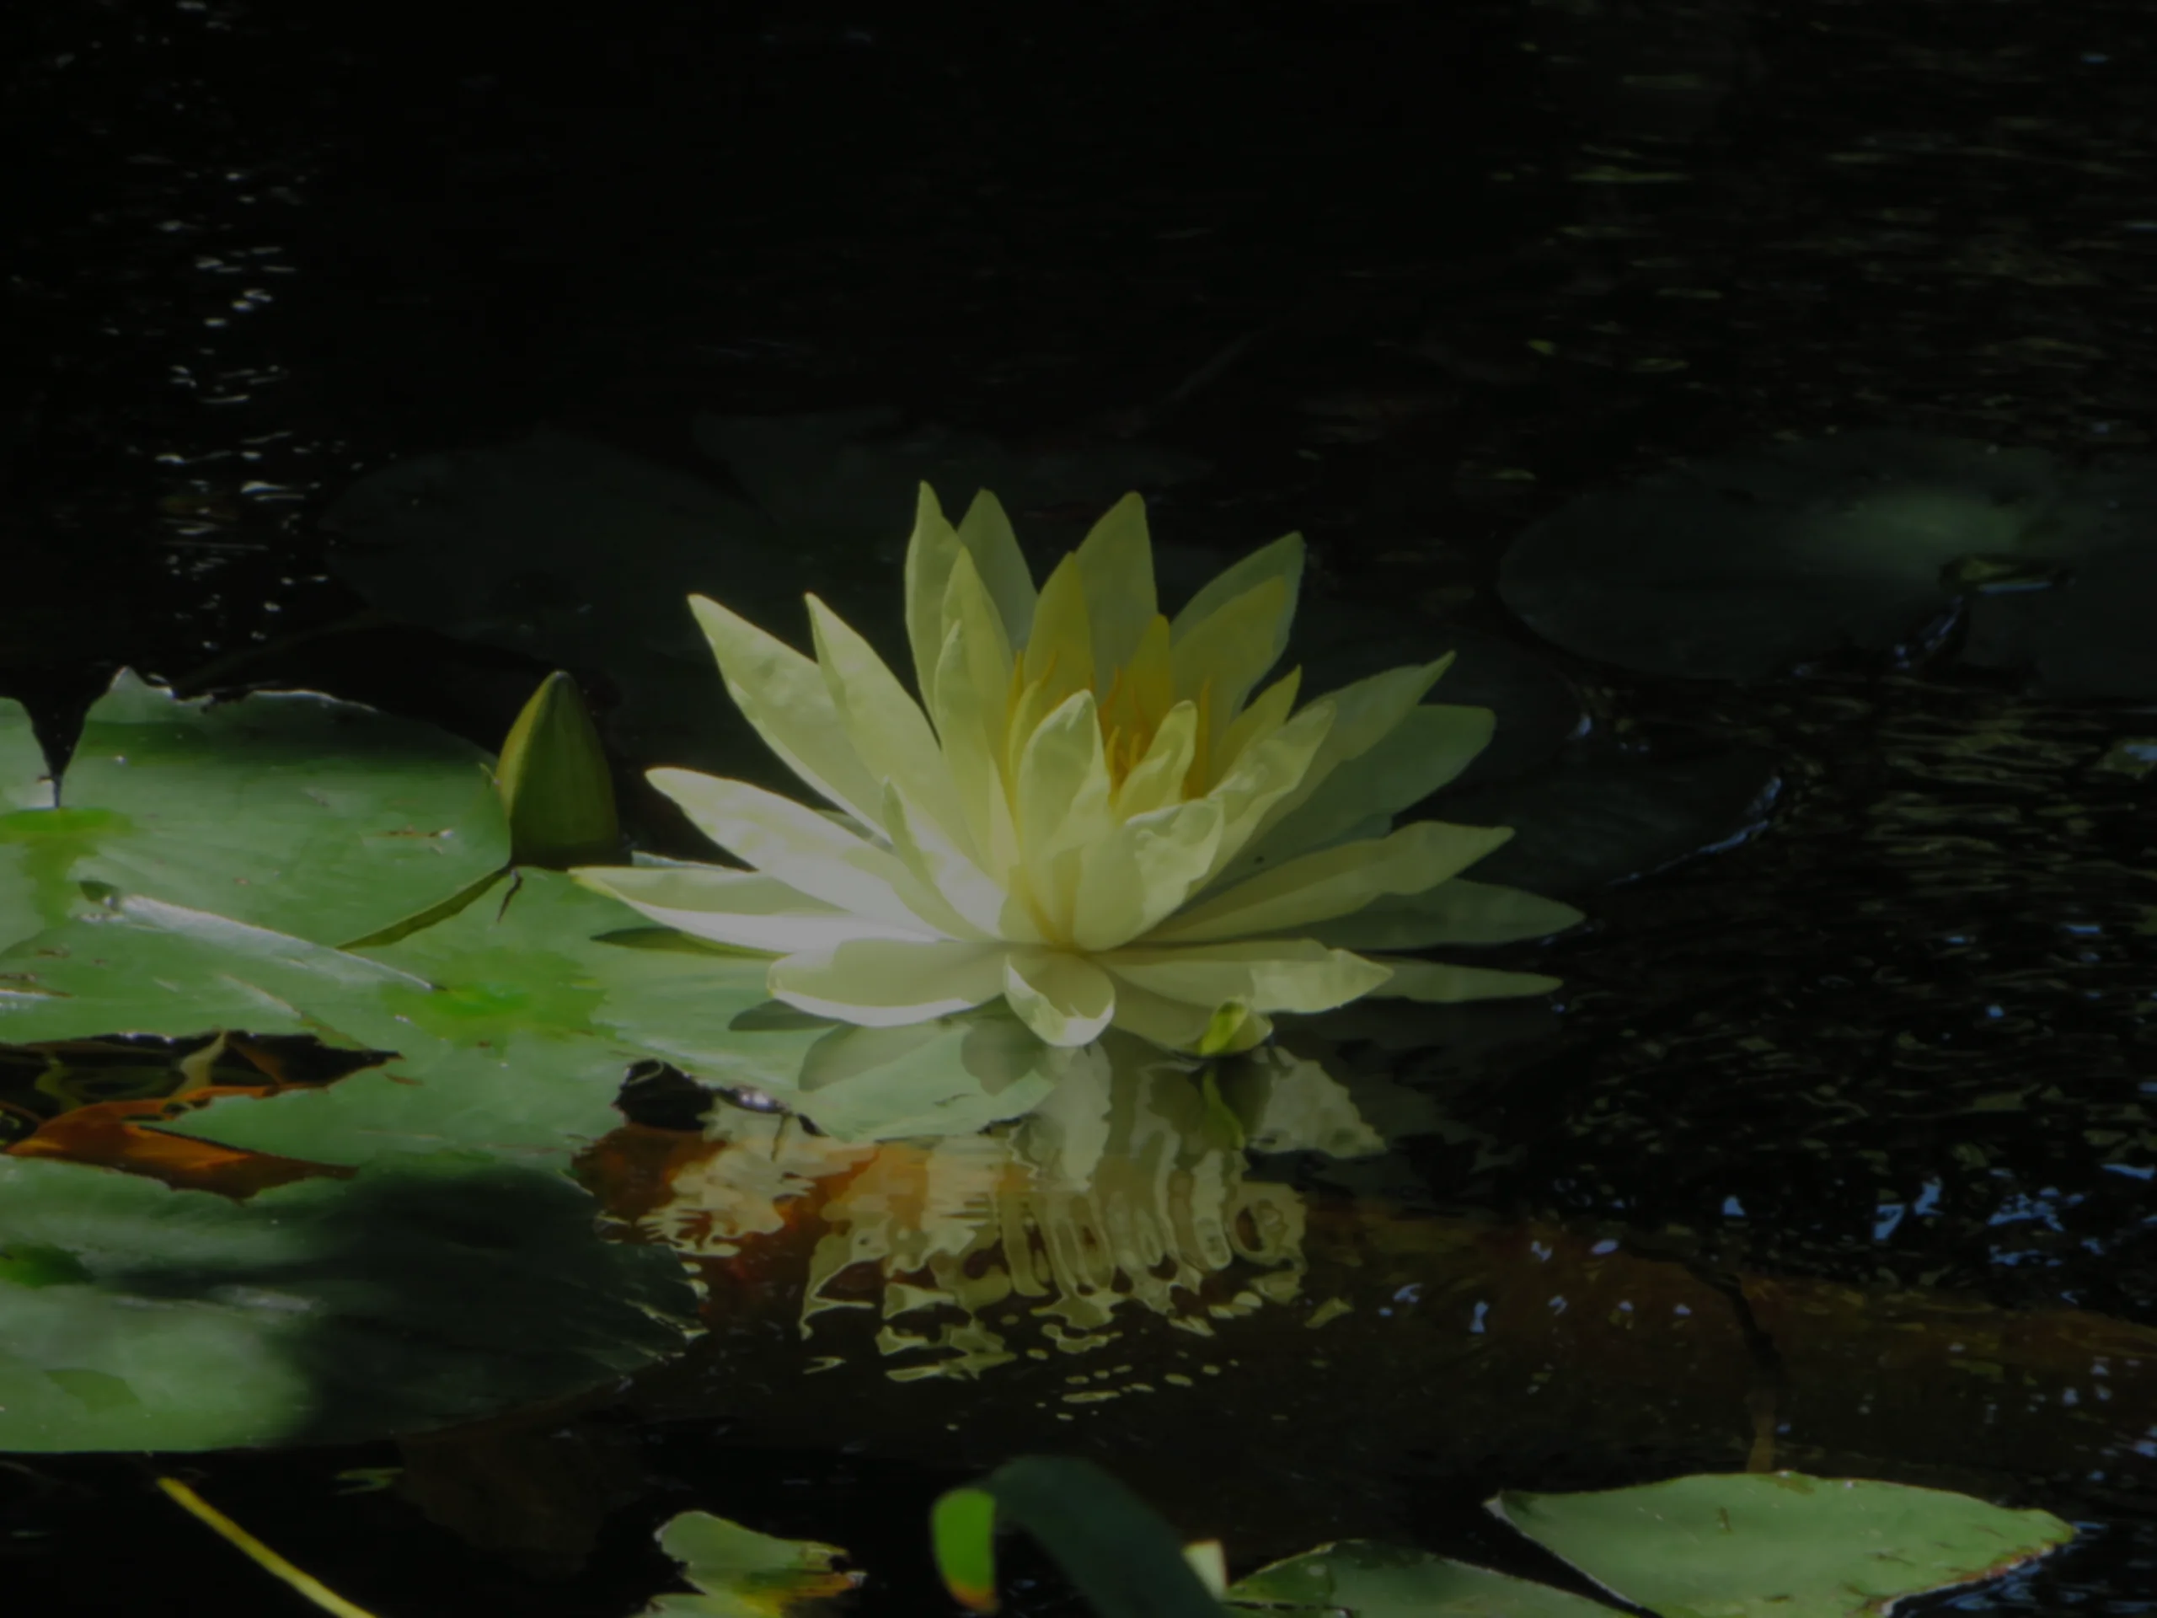
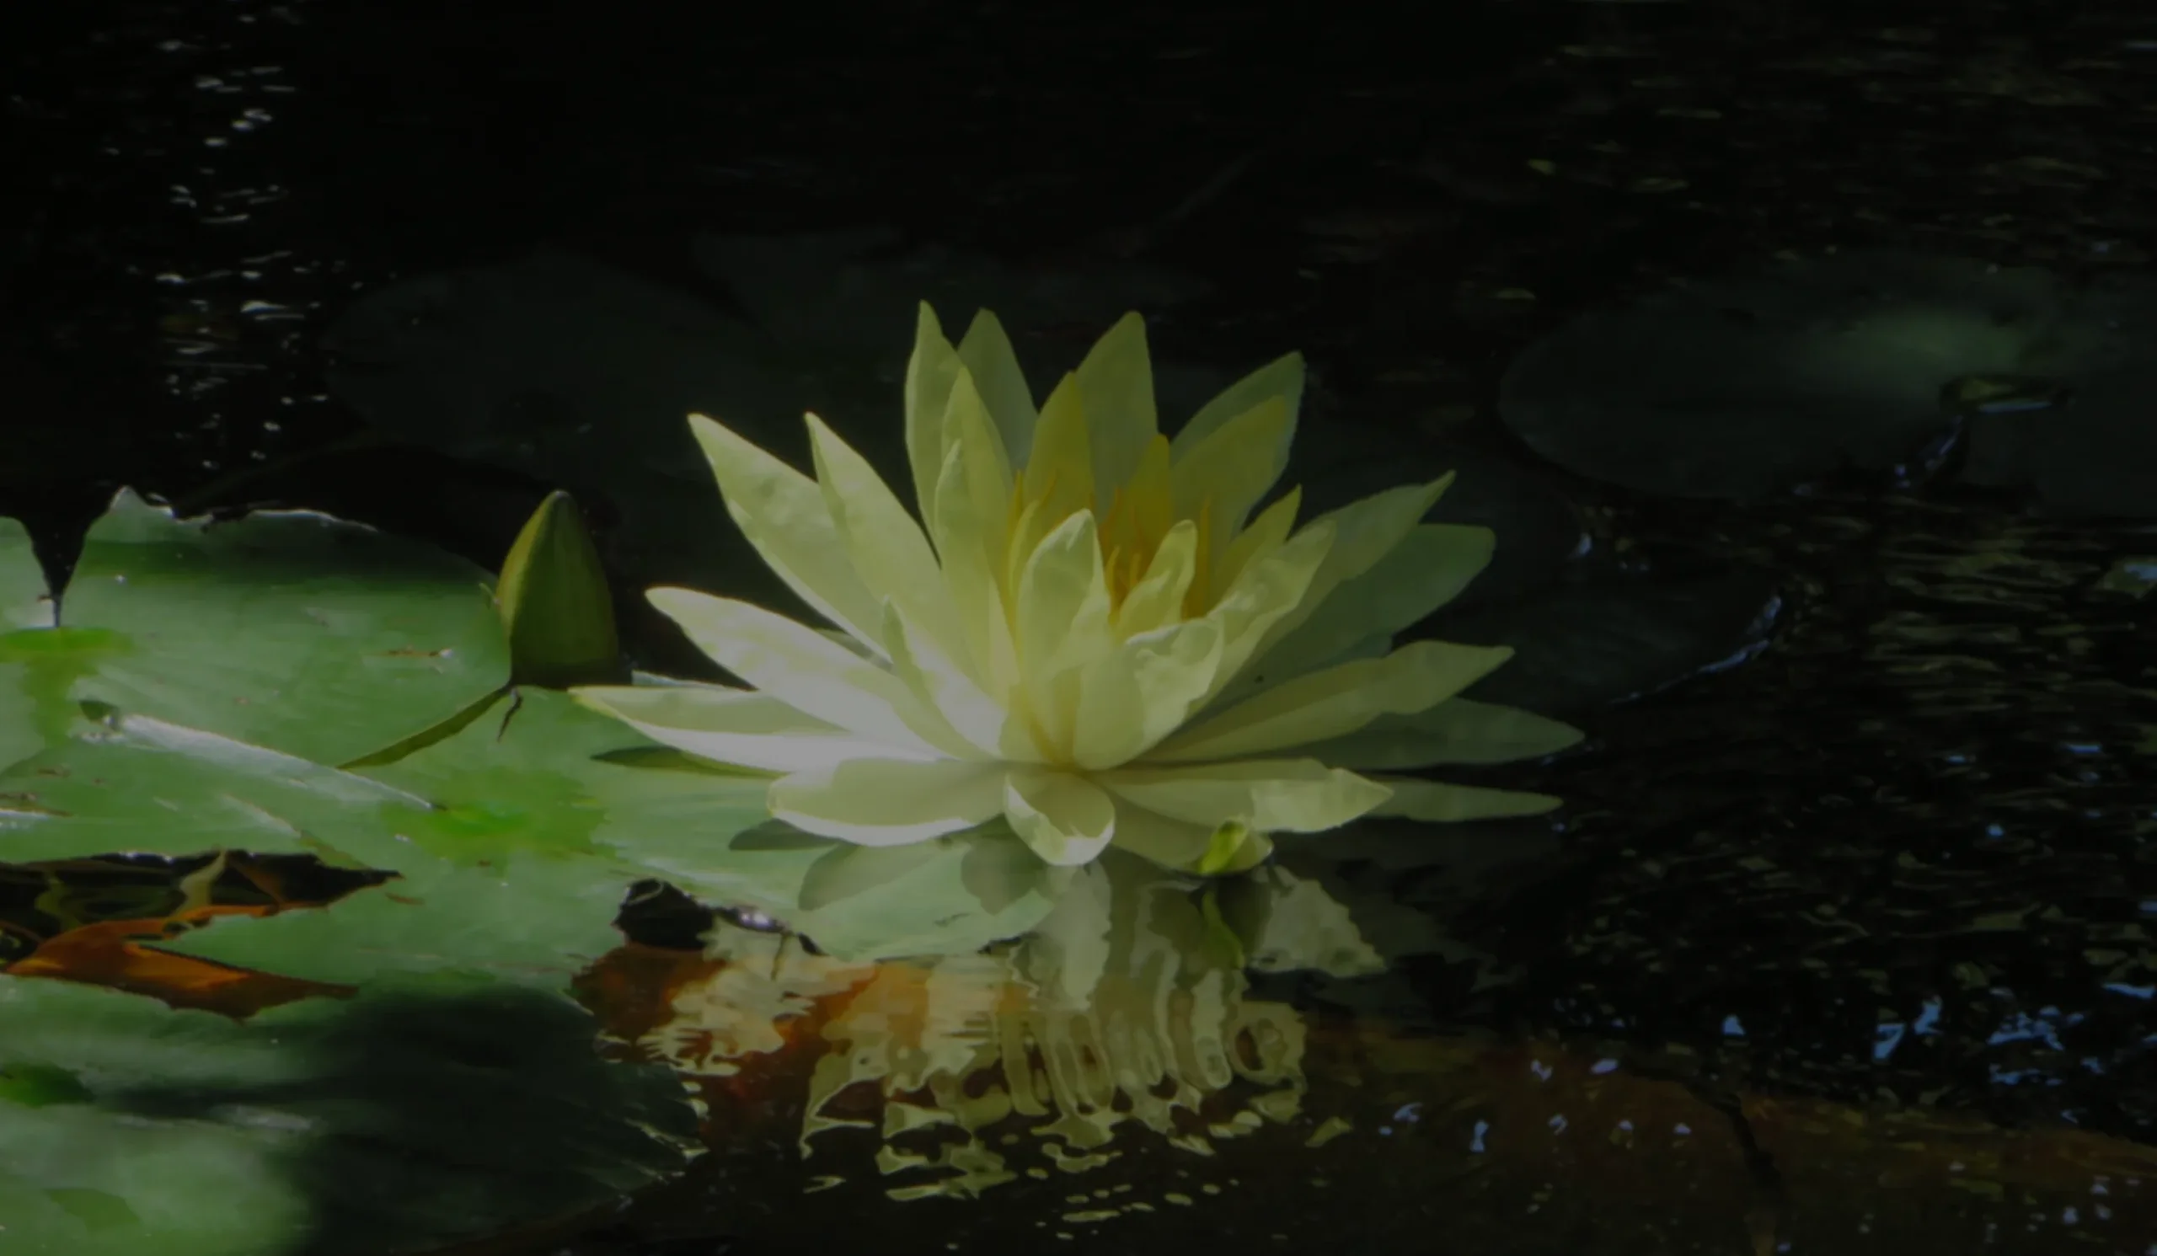
feat(backgrounds): 删掉所有动态 + 大幅调亮 + 修复黑边与取景
一、删掉所有动态效果（用户明确要求）
  · draw() 里照片分支不再调用 drawSharedInteraction（涟漪/光点）
  · drawPhotoBackground 删除 ken-burns 缩放、鼠标视差、光标光斑
  · 删除 PHOTO_INTERACTION 表、onMouseMove 的照片交互分支、photoPhase
  · 删除已无用的 drawSharedInteraction 函数
实测验证：相隔 1.5s 的两帧截图 Buffer 完全一致（true），
鼠标移动前后也无变化（false）—— 确认完全静止。

二、调亮
分三层推进：
  1. canvas 层：screen 提亮 0.13/0.08/0.04 -> 0.34/0.24/0.14
  2. 上下压暗：顶部 0.3 -> 0.06，底部 0.28 -> 0.09
     （codex 指出 "the large dark header reduces the visible scene"）
  3. 暗角：0.08~0.3 -> 0.04~0.14
  4. 源图：三段式 LUT 抬暗（暗部 +56~78、中间 +30~46、高光 +6~12）
     普通 Brightness 是线性乘法，对暗部（56x1.5=84）几乎无效，必须用曲线

三、修复黑边（关键 bug）
实测右侧边缘亮度只有 3.0、底部 17.6 —— 不是"暗调照片"，
而是合成时背景层取了整张原图，而手机截图四周本身是黑的。
改成：背景层取**画面中心 60% 区域**放大虚化，中心永远是亮的，
延展出来自然没有黑边。修复后边缘亮度：左 156 / 右 145（原 80/3）。

四、修复取景（细雨和冬梅大小不适配）
手机截图是 1200x2670（竖），裁成 16:10 只能 1200x699 ——
等于放大 3.5 倍，主体必然顶边。codex 也指出：
  rain:   "Zoom out about 10-15%"
  winter: "Zoom out about 15-20%, blossoms cut off at bottom"
改用「锐利主体 + 自身模糊延展」：
  1. 锐利区取比画布高 18% 的窗口（主体缩小约 17%）
  2. 背景用中心 60% 放大 + 78px 模糊
  3. 椭圆蒙版 5% 模糊淡出，边缘无缝融合
复评取景 8/10（原 7/10）。

五、统一尺寸
所有背景统一到 2560x1491（与聊天舞台实际比例 1.717 对齐），
避免 canvas cover 时二次裁切。

对话页实测：冬梅 8、春柳 8、樱花 8、细雨 7、秋菊 7
（原来普遍 3~6，"heavy dark borders" 的问题已消除）

验证：verify:palette 12/12、verify:chat-backgrounds 13/13、其余离线用例 fail 0；
chat-backgrounds-browser 通过；vue-tsc 与 vite build 通过。

diff --git a/src/components/BgCanvas.vue b/src/components/BgCanvas.vue
@@ -21,7 +21,6 @@ let customImg: HTMLImageElement | null = null;
 const photoImages: Record<string, HTMLImageElement> = {};
 let photoLoadStarted = false;
 /** 漂移相位：让照片极缓地平移/缩放，静止的贴图感会消失 */
-let photoPhase = 0;
 
 let ro: ResizeObserver | null = null;
 
@@ -1550,126 +1549,79 @@ function drawRain(ctx: CanvasRenderingContext2D) {
  * 照片模式下保留的交互层：鼠标涟漪 + 点击光点。
  * 这些是「桌面宠物应用」该有的活气，照片本身是静的。
  */
-function drawSharedInteraction(ctx: CanvasRenderingContext2D) {
-  const k = strength();
-
-  // 鼠标涟漪
-  for (const r of ripples) {
-    ctx.save();
-    ctx.globalAlpha = r.alpha * 0.5;
-    ctx.strokeStyle = "rgba(255, 255, 255, 1)";
-    ctx.lineWidth = r.lw;
-    ctx.beginPath();
-    ctx.arc(r.x, r.y, r.r, 0, Math.PI * 2);
-    ctx.stroke();
-    ctx.restore();
-  }
-
-  // 点击光点
-  for (const p of particles) {
-    const life = Math.max(0, p.life);
-    if (life <= 0) continue;
-    ctx.save();
-    ctx.globalCompositeOperation = "lighter";
-    ctx.globalAlpha = p.alpha * life * k * 0.7;
-    const g = ctx.createRadialGradient(p.x, p.y, 0, p.x, p.y, p.size * 4);
-    g.addColorStop(0, "rgba(255, 255, 255, 0.7)");
-    g.addColorStop(0.4, p.color.replace(/,\s*[\d.]+\)$/, ", 0.3)"));
-    g.addColorStop(1, "rgba(255, 255, 255, 0)");
-    ctx.fillStyle = g;
-    ctx.beginPath();
-    ctx.arc(p.x, p.y, p.size * 4, 0, Math.PI * 2);
-    ctx.fill();
-    ctx.restore();
-  }
-}
-
 function drawPhotoBackground(ctx: CanvasRenderingContext2D, k: number) {
   const cfg = photoBackground(props.mode);
   if (!cfg) return false;
   ensurePhotoLoaded();
 
-  // 底色兜底：照片未加载完时先铺一层同色调深色，避免闪白
-  ctx.fillStyle = "rgba(20, 26, 34, 1)";
+  // 底色兜底：照片未加载完时先铺一层同色调，避免闪白
+  ctx.fillStyle = "rgba(44, 50, 58, 1)";
   ctx.fillRect(0, 0, W, H);
 
   const img = photoImages[cfg.id];
   if (!img) return true; // 已画兜底色，等图加载
 
-  // ---------- cover 铺满 + ken-burns ----------
+  /*
+   * 完全静态的 cover 铺满。
+   *
+   * 这里删掉了 ken-burns 缩放、鼠标视差、光标光斑、涟漪、粒子。
+   * 用户明确要求「所有的动态效果都删了」—— 照片本身是完整画面，
+   * 加任何运动或叠加都会干扰阅读，静止反而是最好的效果。
+   */
   const ir = img.width / img.height;
   const cr = W / H;
-  // 基础缩放：让图片完全覆盖画布
-  const baseScale = ir > cr ? H / img.height : W / img.width;
-  // 漂移：缓慢的缩放与位移，幅度很小
-  const driftT = photoPhase;
-  const zoom = 1.05 + Math.sin(driftT * 0.7) * 0.028 * (cfg.drift / 0.014);
-  const dx = Math.sin(driftT * 0.43) * W * cfg.drift;
-  const dy = Math.cos(driftT * 0.31) * H * cfg.drift;
-
-  /*
-   * 鼠标视差：照片按光标位置做小幅反向位移。
-   * 这个是"鼠标移动有动态变化"最直接的来源 —— 静态照片立刻有了纵深。
-   * 幅度控制在 1.6%，太大就会晕。
-   */
-  const parallaxX = mx > -900 ? (mx / W - 0.5) * -W * 0.016 : 0;
-  const parallaxY = my > -900 ? (my / H - 0.5) * -H * 0.016 : 0;
-
-  const dw = img.width * baseScale * zoom;
-  const dh = img.height * baseScale * zoom;
-  const ox = (W - dw) / 2 + dx + parallaxX;
-  const oy = (H - dh) / 2 + dy + parallaxY;
+  const scale = ir > cr ? H / img.height : W / img.width;
+  const dw = img.width * scale;
+  const dh = img.height * scale;
+  const ox = (W - dw) / 2;
+  const oy = (H - dh) / 2;
 
   ctx.save();
-  ctx.globalAlpha = cfg.opacity * Math.min(1, 0.55 + 0.45 * k);
+  ctx.globalAlpha = cfg.opacity;
   ctx.drawImage(img, ox, oy, dw, dh);
   ctx.restore();
 
-  // ---------- 色调统一 ----------
+  /*
+   * 提亮。
+   *
+   * 之前这块是"压暗"（暗角 + 上下黑渐变），用户反馈画面太暗。
+   * 改成 screen 提亮：把整张照片往亮部推，做出通透感，
+   * 亮度随背景浓度档位线性变化（浓度越高提亮越多）。
+   */
+  ctx.save();
+  ctx.globalCompositeOperation = "screen";
+  const lift = ctx.createLinearGradient(0, 0, W * 0.4, H);
+  lift.addColorStop(0, `rgba(255, 253, 247, ${(0.34 * k).toFixed(3)})`);
+  lift.addColorStop(0.55, `rgba(252, 253, 255, ${(0.24 * k).toFixed(3)})`);
+  lift.addColorStop(1, `rgba(246, 250, 255, ${(0.14 * k).toFixed(3)})`);
+  ctx.fillStyle = lift;
+  ctx.fillRect(0, 0, W, H);
+  ctx.restore();
+
+  // ---------- 色调统一（很淡，只把照片和界面拉到一个色温） ----------
   ctx.save();
   ctx.fillStyle = cfg.tint;
   ctx.fillRect(0, 0, W, H);
   ctx.restore();
 
-  // ---------- 光标光斑：一缕光跟着鼠标照在照片上 ----------
-  if (mx > -900) {
-    ctx.save();
-    ctx.globalCompositeOperation = "screen";
-    const poolR = Math.max(W, H) * 0.26;
-    const pool = ctx.createRadialGradient(mx, my, 0, mx, my, poolR);
-    const pa = 0.13 * k;
-    pool.addColorStop(0, `rgba(255, 253, 244, ${pa.toFixed(3)})`);
-    pool.addColorStop(0.45, `rgba(255, 250, 238, ${(pa * 0.42).toFixed(3)})`);
-    pool.addColorStop(1, "rgba(255, 255, 255, 0)");
-    ctx.fillStyle = pool;
-    ctx.fillRect(0, 0, W, H);
-    ctx.restore();
-  }
-
-  // ---------- 暗角 ----------
-  const vig = ctx.createRadialGradient(
-    W * 0.5, H * 0.42, Math.min(W, H) * 0.28,
-    W * 0.5, H * 0.42, Math.max(W, H) * 0.82,
-  );
-  vig.addColorStop(0, "rgba(0, 0, 0, 0)");
-  vig.addColorStop(0.62, `rgba(0, 0, 0, ${(cfg.vignette * 0.35).toFixed(3)})`);
-  vig.addColorStop(1, `rgba(0, 0, 0, ${cfg.vignette.toFixed(3)})`);
-  ctx.fillStyle = vig;
-  ctx.fillRect(0, 0, W, H);
-
-  // ---------- 底部压暗：输入框区域必须清晰 ----------
-  const bottom = ctx.createLinearGradient(0, H * 0.72, 0, H);
-  bottom.addColorStop(0, "rgba(0, 0, 0, 0)");
-  bottom.addColorStop(1, "rgba(0, 0, 0, 0.28)");
-  ctx.fillStyle = bottom;
-  ctx.fillRect(0, H * 0.72, W, H * 0.28);
-
-  // ---------- 顶部压暗：让标题栏区域不被照片细节干扰 ----------
-  const top = ctx.createLinearGradient(0, 0, 0, H * 0.24);
-  top.addColorStop(0, "rgba(0, 0, 0, 0.3)");
-  top.addColorStop(1, "rgba(0, 0, 0, 0)");
+  /*
+   * 上下只留极轻的过渡。
+   *
+   * 原来是顶部 0.3 / 底部 0.28 的黑渐变，为了让标题栏和输入框"压得住"，
+   * 但那正是"画面闷"的主因（codex: "the large dark header reduces the
+   * visible scene"）。现在压到 0.06/0.09，只留一丝层次，不再吃掉亮部。
+   */
+  const top = ctx.createLinearGradient(0, 0, 0, H * 0.15);
+  top.addColorStop(0, "rgba(24, 28, 34, 0.06)");
+  top.addColorStop(1, "rgba(24, 28, 34, 0)");
   ctx.fillStyle = top;
-  ctx.fillRect(0, 0, W, H * 0.24);
+  ctx.fillRect(0, 0, W, H * 0.15);
+
+  const bottom = ctx.createLinearGradient(0, H * 0.84, 0, H);
+  bottom.addColorStop(0, "rgba(24, 28, 34, 0)");
+  bottom.addColorStop(1, "rgba(24, 28, 34, 0.09)");
+  ctx.fillStyle = bottom;
+  ctx.fillRect(0, H * 0.84, W, H * 0.16);
 
   return true;
 }
@@ -1794,8 +1746,14 @@ function draw() {
 
   // 照片背景优先：极光/水墨/细雨/科幻/樱花 现在都是真实摄影
   if (drawPhotoBackground(ctx, strength())) {
-    // 照片模式下只保留交互层（涟漪/光点），不再叠加程序化图案
-    drawSharedInteraction(ctx);
+    /*
+     * 照片模式完全静态。
+     *
+     * 这里曾经画过涟漪 + 光点 + 视差 + 光标光斑，用户明确要求
+     * 「所有的动态效果都删了」。照片本身就是完整画面，
+     * 加任何叠加层都只是干扰；静止反而更像一张高级壁纸。
+     * 程序化背景（水墨/极光的手绘分支）保留它们自己的动画。
+     */
     return;
   }
 
@@ -2108,8 +2066,6 @@ function draw() {
 }
 
 function animate() {
-  // 照片漂移相位：每帧推进一点点，约 40 秒一个周期
-  photoPhase += 0.0025;
   update();
   draw();
   animId = requestAnimationFrame(animate);
@@ -2126,23 +2082,6 @@ function resize() {
   initParticles();
 }
 
-/**
- * 照片背景的鼠标交互配色。
- *
- * 照片本身是静态的，鼠标动起来需要有"活气"，否则和贴图没区别。
- * 每个背景给一组符合自身色调的粒子色与涟漪色。
- */
-const PHOTO_INTERACTION: Record<string, { particle: string[]; ripple: string }> = {
-  rain: { particle: ["rgba(198, 226, 240, 0.85)", "rgba(226, 242, 250, 0.7)"], ripple: "rgba(200, 228, 242," },
-  "spring-willow": { particle: ["rgba(186, 226, 160, 0.85)", "rgba(246, 232, 150, 0.75)"], ripple: "rgba(198, 226, 168," },
-  "summer-lotus": { particle: ["rgba(178, 220, 196, 0.85)", "rgba(240, 200, 216, 0.72)"], ripple: "rgba(186, 222, 200," },
-  "autumn-chrys": { particle: ["rgba(246, 214, 196, 0.85)", "rgba(250, 232, 190, 0.72)"], ripple: "rgba(246, 220, 202," },
-  "winter-plum": { particle: ["rgba(226, 234, 246, 0.88)", "rgba(240, 232, 246, 0.72)"], ripple: "rgba(228, 236, 248," },
-  sakura: { particle: ["rgba(244, 214, 226, 0.85)", "rgba(252, 240, 246, 0.72)"], ripple: "rgba(244, 218, 230," },
-  aurora: { particle: ["rgba(94, 234, 212, 0.9)", "rgba(167, 139, 250, 0.85)"], ripple: "rgba(120, 240, 210," },
-  ink: { particle: ["rgba(120, 128, 140, 0.6)", "rgba(160, 168, 178, 0.5)"], ripple: "rgba(130, 138, 150," },
-};
-
 function onMouseMove(x: number, y: number) {
   mx = x; my = y;
   if (props.mode === 'sakura') trail.push({ x, y, t: 1 });
@@ -2158,24 +2097,6 @@ function onMouseMove(x: number, y: number) {
   }
   if (props.mode === 'ink' && Math.random() < 0.08) { addRipple(x, y); }
 
-  /*
-   * 照片背景的交互。
-   * 照片是静帧，光标划过时必须有反馈，否则用户会觉得"没反应"。
-   * 用低频的涟漪 + 微粒子 —— 密度和水墨一致，不会吵。
-   */
-  const photoTone = PHOTO_INTERACTION[props.mode];
-  if (photoTone) {
-    if (Math.random() < 0.09) addRipple(x, y);
-    if (Math.random() < 0.22) {
-      particles.push({
-        x: x + rnd(-7, 7), y: y + rnd(-5, 5),
-        vx: rnd(-0.12, 0.12), vy: rnd(-0.42, -0.1),
-        size: rnd(1, 2.3), alpha: rnd(0.3, 0.62),
-        life: 1, decay: rnd(0.014, 0.03), temp: true,
-        color: photoTone.particle[Math.random() < 0.5 ? 0 : 1],
-      });
-    }
-  }
 }
 
 function clearPointer() {

diff --git a/src/services/bgPhotos.ts b/src/services/bgPhotos.ts
@@ -51,8 +51,8 @@ export const PHOTO_BACKGROUNDS: Record<string, PhotoBackground> = {
     source: "3840x2160",
     credit: "wallhaven / 实拍极光",
     opacity: 1,
-    tint: "rgba(18, 30, 52, 0.18)",
-    vignette: 0.42,
+    tint: "rgba(18, 30, 52, 0.14)",
+    vignette: 0.34,
     drift: 0.018,
   },
   ink: {
@@ -61,8 +61,8 @@ export const PHOTO_BACKGROUNDS: Record<string, PhotoBackground> = {
     source: "4592x2584",
     credit: "wallhaven / 实拍云雾山脊",
     opacity: 1,
-    tint: "rgba(40, 46, 52, 0.12)",
-    vignette: 0.3,
+    tint: "rgba(40, 46, 52, 0.08)",
+    vignette: 0.24,
     drift: 0.012,
   },
   rain: {
@@ -71,8 +71,8 @@ export const PHOTO_BACKGROUNDS: Record<string, PhotoBackground> = {
     source: "1200x2670",
     credit: "用户参考图 / 湿伞望竹",
     opacity: 1,
-    tint: "rgba(248, 253, 255, 0.06)",
-    vignette: 0.30,
+    tint: "rgba(248, 253, 255, 0.03)",
+    vignette: 0.14,
     drift: 0.008,
   },
   scifi: {
@@ -91,8 +91,8 @@ export const PHOTO_BACKGROUNDS: Record<string, PhotoBackground> = {
     source: "5712x3214",
     credit: "wallhaven / 实拍樱花单枝（背景虚化）",
     opacity: 1,
-    tint: "rgba(252, 250, 252, 0.22)",
-    vignette: 0.20,
+    tint: "rgba(252, 250, 252, 0.10)",
+    vignette: 0.10,
     drift: 0.01,
   },
   /*
@@ -106,8 +106,8 @@ export const PHOTO_BACKGROUNDS: Record<string, PhotoBackground> = {
     source: "1200x2670",
     credit: "用户参考图 / 雨中园林垂柳",
     opacity: 1,
-    tint: "rgba(255, 253, 246, 0.16)",
-    vignette: 0.10,
+    tint: "rgba(255, 253, 246, 0.08)",
+    vignette: 0.04,
     drift: 0.012,
   },
   "summer-lotus": {
@@ -116,8 +116,8 @@ export const PHOTO_BACKGROUNDS: Record<string, PhotoBackground> = {
     source: "3840x2160",
     credit: "wallhaven / 荷塘睡莲",
     opacity: 1,
-    tint: "rgba(248, 255, 250, 0.12)",
-    vignette: 0.12,
+    tint: "rgba(250, 255, 250, 0.08)",
+    vignette: 0.10,
     drift: 0.014,
   },
   "autumn-chrys": {
@@ -126,8 +126,8 @@ export const PHOTO_BACKGROUNDS: Record<string, PhotoBackground> = {
     source: "1200x2670",
     credit: "用户参考图 / 白菊侧光",
     opacity: 1,
-    tint: "rgba(255, 252, 246, 0.10)",
-    vignette: 0.16,
+    tint: "rgba(255, 252, 246, 0.05)",
+    vignette: 0.08,
     drift: 0.012,
   },
   "winter-plum": {
@@ -136,8 +136,8 @@ export const PHOTO_BACKGROUNDS: Record<string, PhotoBackground> = {
     source: "1200x2670",
     credit: "用户参考图 / 雪压梅枝",
     opacity: 1,
-    tint: "rgba(252, 254, 255, 0.20)",
-    vignette: 0.10,
+    tint: "rgba(252, 254, 255, 0.10)",
+    vignette: 0.04,
     drift: 0.01,
   },
 };
